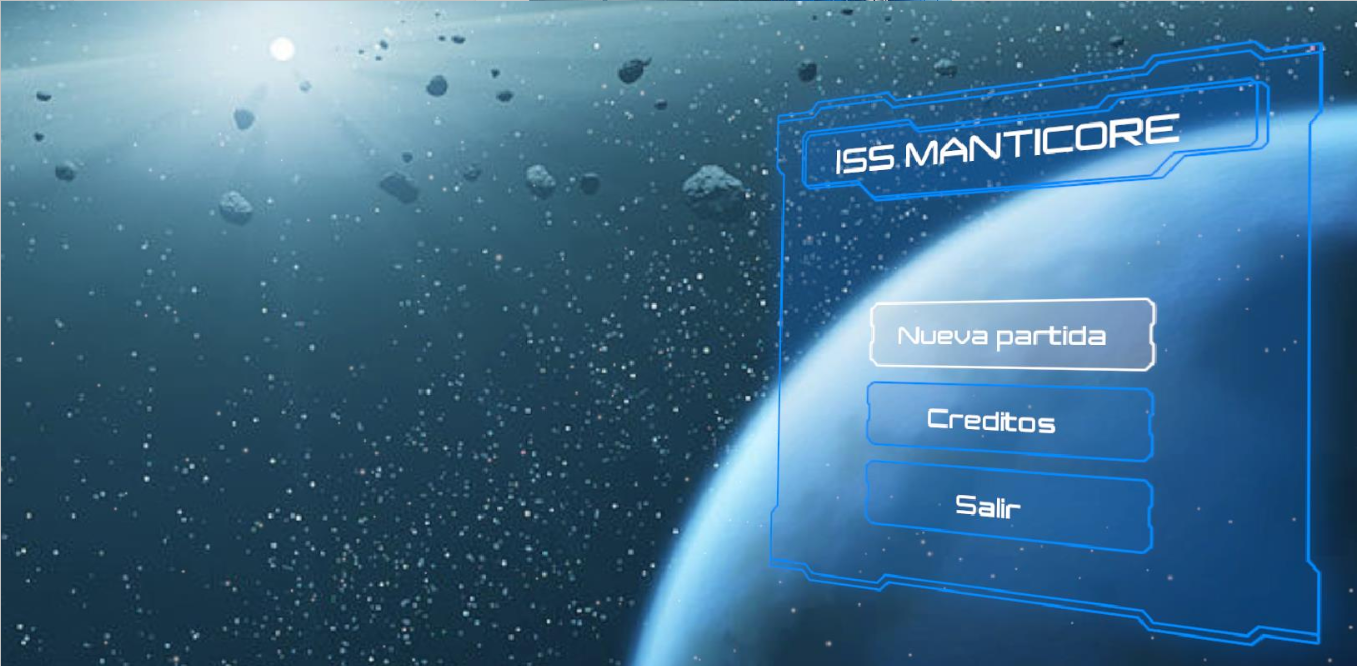
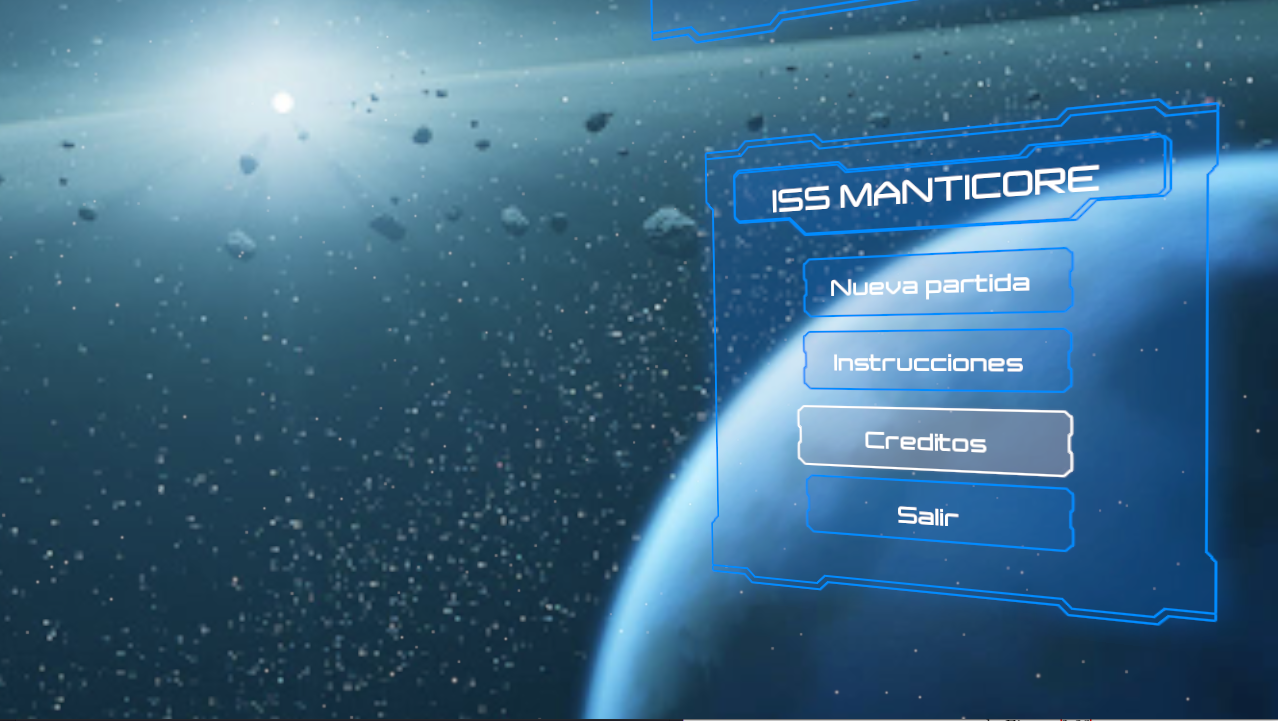
Modificaciones en la memoria: Textos y imagenes...

diff --git a/memoria/capitulos/Tema_2.tex b/memoria/capitulos/Tema_2.tex
@@ -312,7 +312,7 @@ Cada vez que se elimina a un enemigo se suma un punto a la puntuación del jugad
 En cuanto al sistema de palancas, se utiliza el prefab de la palanca y su correspondiente animación, visible cuando el personaje la acciona. Se ha modificado el script propio de la palanca para obtener Lever con el comportamiento deseado. Además, se ha creado otro script nuevo para el sistema, denominado LeverSystem, que permite que, al añadir a la escena tantas palancas como se deseen, solo se abra la puerta cuando todas y cada una de ellas estén accionadas.
 
 \subsubsection{Sistema de vidas}
-El sistema de vidas gestiona la salud del personaje, cuando una bala de un bot enemy golpea al personaje, este pierde una vida. En cambio, cuando es un spiderbot el que alcanza al personaje, este se queda sin un cuarto de vida. También permite al personaje recuperar vida cuando este recoge un ítem de vida. Cuando el personaje se queda sin vidas el sistema muestra el menú de Game Over donde el jugador puede escoger entre reiniciar el nivel en el que se encuentra, volver al menú principal o abandonar el juego.
+El sistema de vidas gestiona la salud del personaje, cuando una bala de un bot enemy golpea al personaje, este pierde un 10\% de su salud. En cambio, cuando es un spiderbot el que alcanza al personaje, este se queda sin un 5\% de su salud. También permite al personaje recuperar vitalidad cuando este recoge un ítem de vida. Cuando el personaje se queda sin vida el sistema muestra el menú de Game Over donde el jugador puede escoger entre reiniciar el nivel en el que se encuentra, volver al menú principal o abandonar el juego.
 
 \subsubsection{Items de recuperación de munición y vida}
 Para estos items se ha utilizado utilizado unos modelos con forma de maletines, para la munición se utiliza el script ``Ammo Box'' del ``Creator Kit: FPS'', y recupera 10 unidades de munición.
@@ -360,13 +360,20 @@ El menú principal consta de 3 botones como se muestra en la Figura \ref{fig:Men
 	\caption{\label{fig:MenuPrincipal3D1}Ejemplo del Menu Principal}
 \end{figure}
 
+
 Detalles de cada opción del menu presentado en la Figura \ref{fig:MenuPrincipal3D1}:
 \begin{itemize}
-	\item \textbf{Nueva Partida:} Activa una segunda ventana en el menú con una explicación de los controles del juego y un botón ``Continuar al juego'' que lleva al nivel 1 como se muestra en la Figura \ref{fig:MenuPrincipalNuevaPartida}.
+	\item \textbf{Nueva Partida:} Lleva al jugador al nivel 1 como se muestra en la Figura \ref{fig:Nivel13D}.
 	\begin{figure}[H]
 		\centering
-		\includegraphics[scale=0.40]{imagenes/MenuPrincipalNuevaPartida.png}
-		\caption{\label{fig:MenuPrincipalNuevaPartida}Apartado Nueva partida del Menu Principal}
+		\includegraphics[scale=0.40]{imagenes/Nivel13D.png}
+		\caption{\label{fig:Nivel13D}Imagen del nivel 1}
+	\end{figure}
+	\item \textbf{Instrucciones:} Activa una segunda ventana en el menú con una explicación de los controles del juego
+	\begin{figure}[H]
+		\centering
+		\includegraphics[scale=0.35]{imagenes/MenuPrincipalInstrucciones.png}
+		\caption{\label{fig:MenuPrincipalInstrucciones}Ejemplo del Menu Instrucciones}
 	\end{figure}
 	\item \textbf{Créditos:} Activa una segunda ventana en el menú con los créditos del juego y un botón ``cerrar'' para cerrar esta ventana como se muestra en la Figura \ref{fig:MenuPrincipalCreditos}.
 	\begin{figure}[H]
@@ -415,7 +422,7 @@ El menú de pausa consta de tres botones para que el jugador pueda elegir una de
 
 \begin{figure}[H]
 	\centering
-	\includegraphics[scale=0.85]{imagenes/MenuPausa.png}
+	\includegraphics[scale=0.45]{imagenes/MenuPausa.png}
 	\caption{\label{fig:MenuPausa}Ejemplo de la pantalla de pausa}
 \end{figure}
 
@@ -436,7 +443,7 @@ Para el diseño de este escenario se han utilizado los Prefabs que proporcionan 
 	\item \textbf{SpaceSkies Free:} Se utiliza uno de sus assets como skybox
 	\item \textbf{Federation Corvette F3:} Se utiliza como base del escenario
 	\item \textbf{Interactive Physical Door Pack:} Se utiliza como base para crear las palancas
-	\item \textbf{Simple Heart Health System:} Se utiliza como base para crear el sistema de vidas
+	\item \textbf{ProgressBar Pack:} Se utiliza como base para crear el sistema de vidas
 	\item \textbf{Enemy Robots:} Se utilizan para los modelos de los enemigos
 \end{itemize}
 
@@ -455,7 +462,7 @@ Para el diseño de este escenario se han utilizado los Prefabs que proporcionan 
 	\item \textbf{Creator kit - FPS:} Se utiliza como base para el personaje,su controlador, el sistema de disparos, el menú de pausa y el HUD
 	\item \textbf{SpaceSkies Free:} Se utiliza uno de sus assets como skybox
 	\item \textbf{Federation Corvette F3:} Se utiliza como base del escenario
-	\item \textbf{Simple Heart Health System:} Se utiliza como base para crear el sistema de vidas
+	\item \textbf{ProgressBar Pack:} Se utiliza como base para crear el sistema de vidas
 	\item \textbf{Sci-Fi Styled Modular Pack:} Se utiliza como base para la construcción del escenario encima de la nave, con el generador y los pasillos
 	\item \textbf{SciFi Enemies and Vehicles:} Se utiliza para el modelo del enemigo con sus animaciones de ataque y persecución
 	\item \textbf{Boxes pack:} Se utiliza para las cajas de munición y vida
@@ -473,7 +480,7 @@ Para el diseño de este escenario se han utilizado los Prefabs que proporcionan 
 	\item \textbf{SpaceSkies Free:} Se utiliza uno de sus assets como skybox
 	\item \textbf{Federation Corvette F3:} Se utiliza como base del escenario
 	\item \textbf{Sci-Fi Styled Modular Pack:} Se utiliza para los modelos de las plataformas móviles
-	\item \textbf{Simple Heart Health System:} Se utiliza como base para crear el sistema de vidas
+	\item \textbf{ProgressBar Pack:} Se utiliza como base para crear el sistema de vidas
 	\item \textbf{Destructor Spaceship:} Se utiliza para el modelo de nave a la que tiene que llegar el personaje
 \end{itemize}
 
